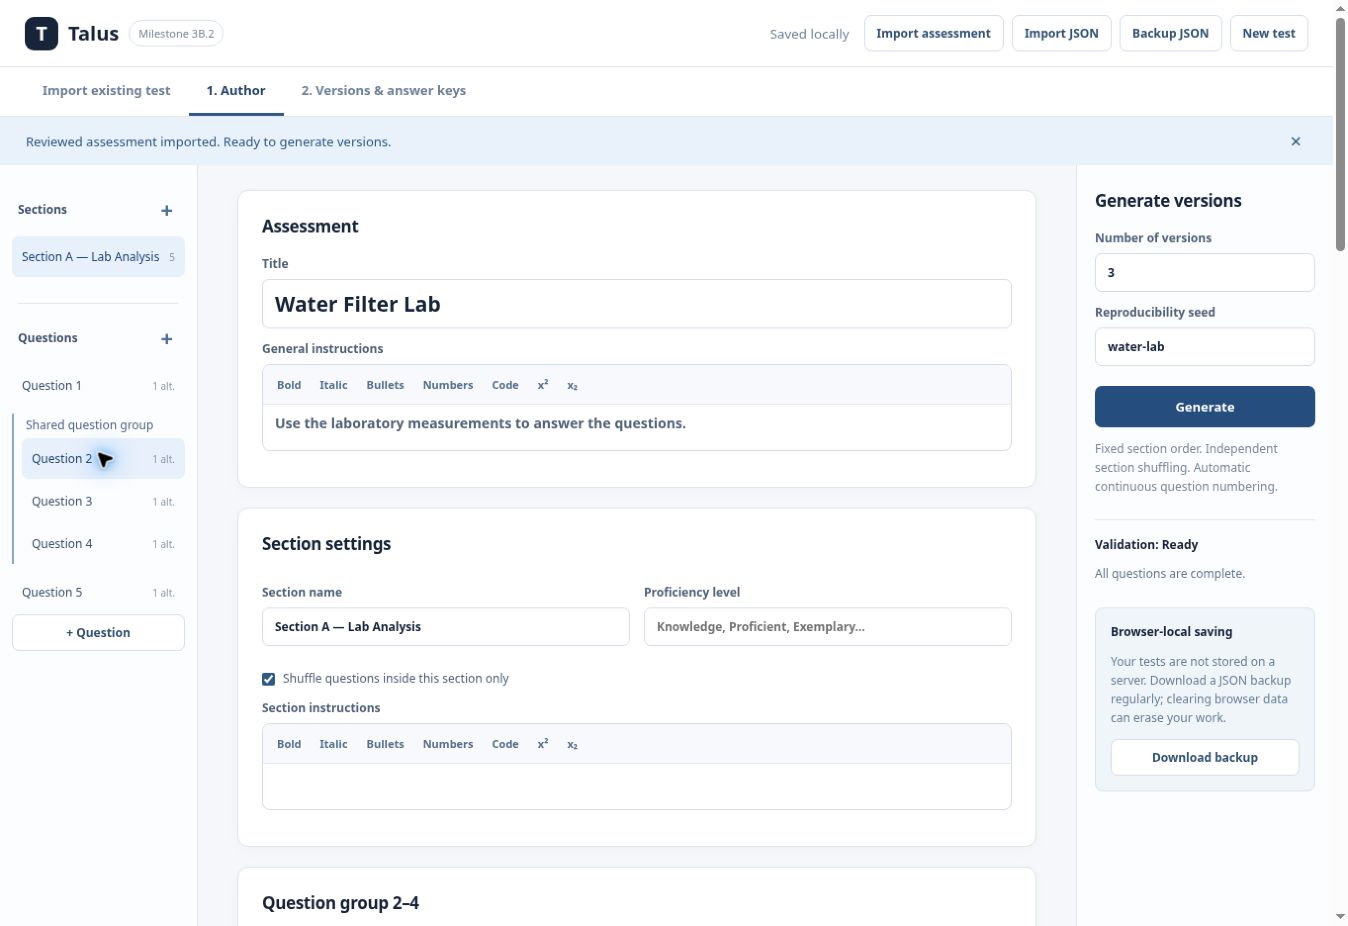
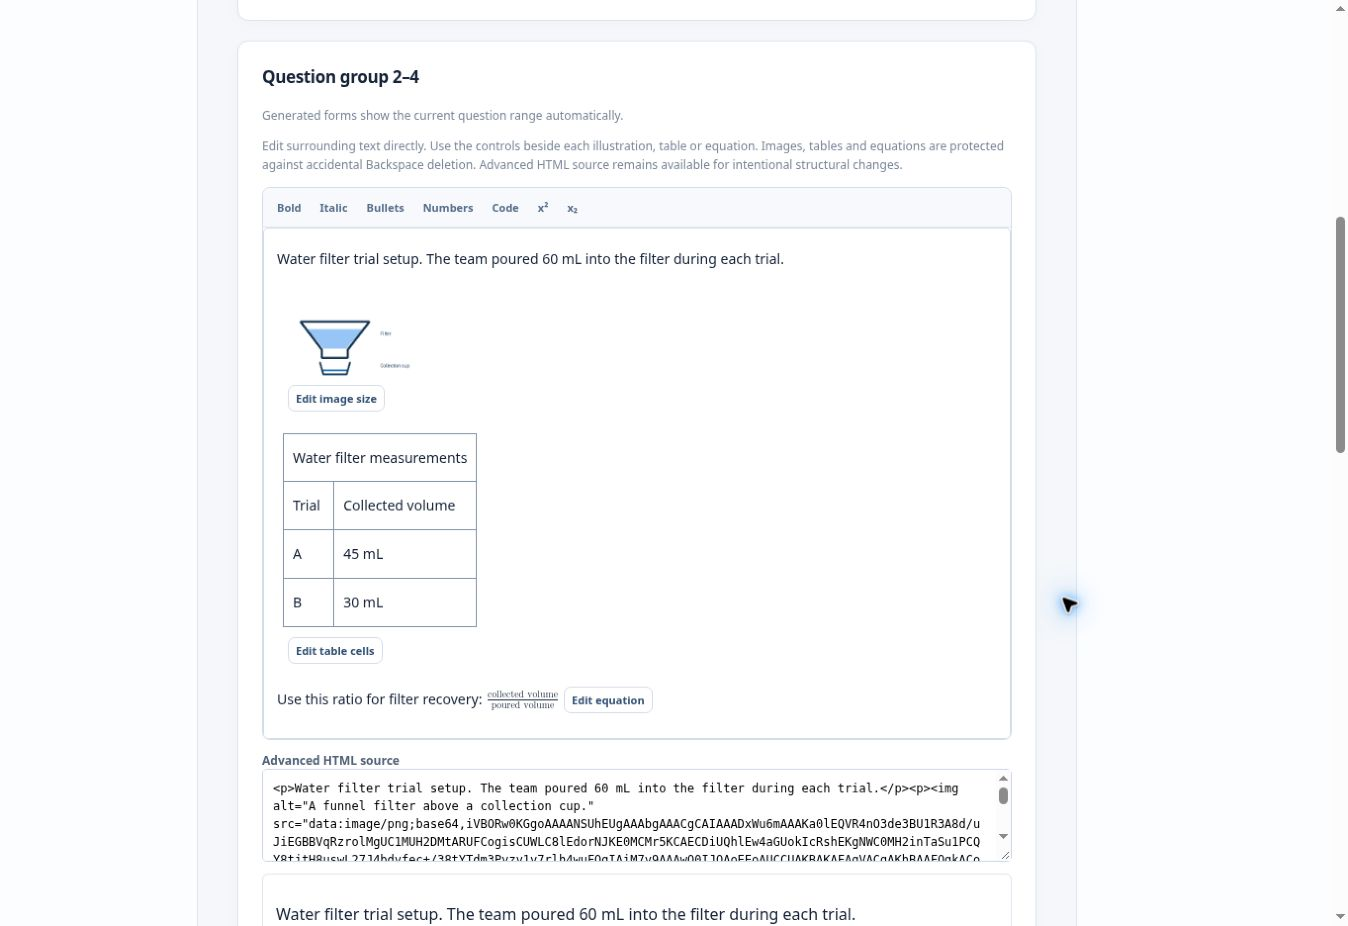
Clarify response space and sharpen walkthrough screenshots

diff --git a/README.md b/README.md
@@ -9,10 +9,10 @@ Make several versions of one classroom assessment, with a matching answer key fo
 ## 1. Import an existing test
 
 1. Choose **Import assessment** and upload your Word `.docx`. In Google Docs, use **File → Download → Microsoft Word (.docx)** first. Use a file upload when your test has a table, diagram, or equation. For a quick text-only import, paste into the source box and choose **Detect sections and questions**.
-2. In **Review proposed structure**, compare the proposed sections and questions with **Original source**. Open each question to check its type, marks, choices, and correct answer or reference answer. Fix any split or merged questions and review the warnings.
+2. In **Review proposed structure**, compare the proposed sections and questions with **Original source**. Open each question to check its type, marks, choices, and correct answer or reference answer. Fix any split or merged questions and review the warnings. If you see a line of underscores in a written-response prompt, remove it if you want to use the response space Talus adds.
 3. If the review shows **Shared question ranges**, confirm only the ranges that match the source. When the review is complete, choose **Accept reviewed import**. If you're replacing a test you want to keep, download **Backup JSON** first.
 
-![Talus import review showing the sample Word document on the left and a proposed Questions 7–9 group with the shared diagram and table on the right](docs/teacher/talus-import.jpg)
+![Talus import review showing the source text from the sample Word document on the left and a proposed Questions 7–9 group with the shared diagram and table on the right](docs/teacher/talus-import.jpg)
 
 *The sample uses source numbers 7–9 for its shared lab questions. Talus uses those numbers to identify the group and renumbers the questions in each generated form.*
 
@@ -22,7 +22,7 @@ If Talus detected a group during import, select one of its questions in **1. Aut
 
 The group stays together when the section shuffles. Leave **Shuffle questions within this group** off when students need to answer the questions in sequence. Talus updates the displayed range on each form, so keep the shared material free of hard-coded question numbers.
 
-![Talus Author view showing Questions 2–4 together in the sidebar, the Question group 2–4 heading, and Generate versions on the right](docs/teacher/talus-author.jpg)
+![Talus Author editor showing the instructions, diagram, measurement table, and equation shared by Questions 2–4](docs/teacher/talus-author.jpg)
 
 ## 3. Make and export versions
 
